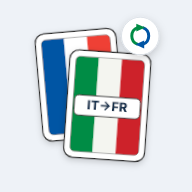
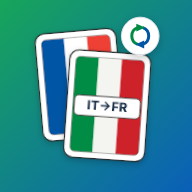
Add files via upload

diff --git a/index.html b/index.html
@@ -137,6 +137,18 @@
     .pick-btn { display: flex; align-items: center; gap: 12px; width: 100%; border: 1.5px solid #dce4ee; border-radius: 14px; padding: 16px; margin-bottom: 14px; font-size: 16px; font-weight: 600; color: #163a66; background: #fff; cursor: pointer; text-align: left; }
     .pick-btn .pfl { font-size: 17px; letter-spacing: 1px; }
     .pick-btn:hover { border-color: #0055A4; background: #f2f6fb; }
+
+    /* Charte « marque » (avant le choix de la langue : connexion / choix / chargement) */
+    body.brand { background: linear-gradient(145deg, #e9f4ee 0%, #e7eef7 55%, #e4edf8 100%); }
+    body.brand .footer { background: transparent; }
+    body.brand .brandname {
+      background: linear-gradient(120deg, #0f9b54 0%, #0a5fb8 100%);
+      -webkit-background-clip: text; background-clip: text;
+      -webkit-text-fill-color: transparent; color: transparent;
+    }
+    body.brand .login-btn { background: linear-gradient(120deg, #17a55a 0%, #0a5fb8 100%); }
+    body.brand .login-input:focus { border-color: #1f7fb8; }
+    body.brand .pick-btn:hover { border-color: #0a5fb8; background: #eef3fb; }
   </style>
 </head>
 <body>
@@ -1086,12 +1098,12 @@ function setFooter() {
 }
 
 function renderLogin(msg, msgType) {
-  document.body.className = "";
+  document.body.className = "brand";
   uiLang = loginLang;
   var root = document.getElementById("root");
   root.innerHTML =
     "<div class='login-wrap'>" +
-    "<h1>Flashcards 🇮🇹🇫🇷</h1>" +
+    "<h1><span class='brandname'>Flashcards</span> 🇮🇹🇫🇷</h1>" +
     "<p>" + t("login_subtitle") + "</p>" +
     "<button class='btn-google' id='btn-google' onclick='loginWithGoogle()'>" + GOOGLE_SVG + t("login_google") + "</button>" +
     "<div class='login-sep'><span></span>" + t("login_or_email") + "<span></span></div>" +
@@ -1104,13 +1116,13 @@ function renderLogin(msg, msgType) {
 }
 
 function renderPicker() {
-  document.body.className = "";
+  document.body.className = "brand";
   uiLang = loginLang;
   var root = document.getElementById("root");
   root.innerHTML =
     "<div class='login-wrap'>" +
-    "<div style='font-size:46px;margin-bottom:6px'>👋</div>" +
-    "<p style='margin-bottom:26px;color:#666;font-size:14px'>" + t("pick_sub") + "</p>" +
+    "<h1><span class='brandname'>Flashcards</span> 🇮🇹🇫🇷</h1>" +
+    "<p style='margin:10px 0 24px;color:#666;font-size:14px'>👋 " + t("pick_sub") + "</p>" +
     "<button class='pick-btn' onclick=\"chooseMode('it','fr')\"><span class='pfl'>🇮🇹→🇫🇷</span> Imparo il francese</button>" +
     "<button class='pick-btn' onclick=\"chooseMode('fr','it')\"><span class='pfl'>🇫🇷→🇮🇹</span> J'apprends l'italien</button>" +
     "</div>";
@@ -1343,9 +1355,10 @@ onAuthStateChanged(auth, async function(user) {
 });
 
 function renderLoadingState() {
+  document.body.className = "brand";
   uiLang = loginLang;
   var root = document.getElementById("root");
-  root.innerHTML = "<div class='login-wrap'><h1>Flashcards 🇮🇹🇫🇷</h1><p>" + t("loading") + "</p></div>";
+  root.innerHTML = "<div class='login-wrap'><h1><span class='brandname'>Flashcards</span> 🇮🇹🇫🇷</h1><p>" + t("loading") + "</p></div>";
   setFooter();
 }
 
